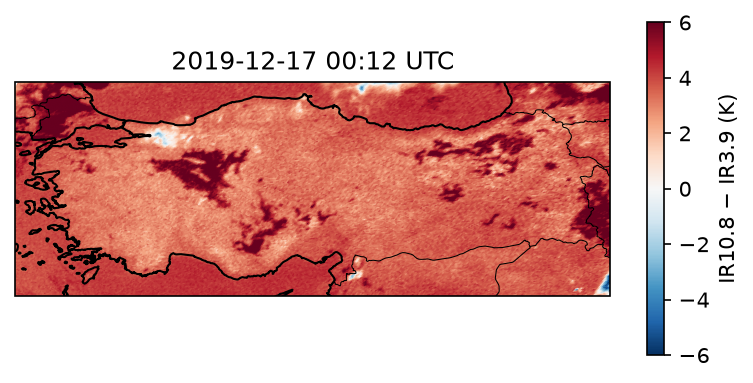
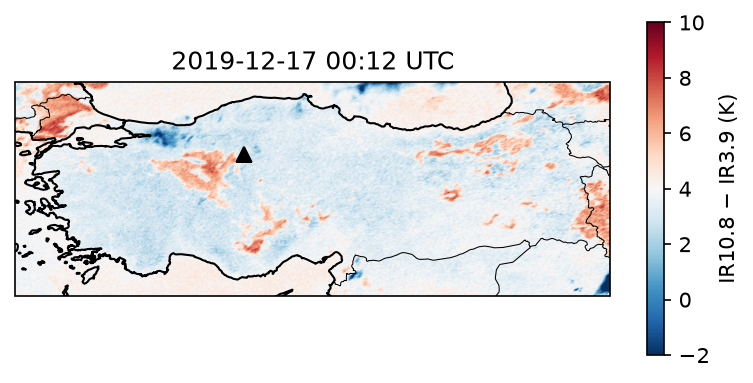
Mark LTAC on BTD map and print station pixel value

diff --git a/scripts/05_explore_btd.py b/scripts/05_explore_btd.py
@@ -14,9 +14,14 @@ print(diff.shape, float(diff.min()), float(diff.max()))
 crs = local["IR_108"].attrs["area"].to_cartopy_crs()
 ax = plt.axes(projection=ccrs.PlateCarree())
 ax.set_extent([25.5, 45.0, 35.5, 42.5], crs=ccrs.PlateCarree())
-img = ax.imshow(diff, transform=crs, extent=crs.bounds, origin="upper", cmap="RdBu_r", vmin=-6, vmax=6)
+img = ax.imshow(diff, transform=crs, extent=crs.bounds, origin="upper", cmap="RdBu_r", vmin=-2, vmax=10)
 ax.coastlines()
 ax.add_feature(cfeature.BORDERS, linewidth=0.5)
 plt.colorbar(img, label="IR10.8 − IR3.9 (K)", shrink=0.6)
 plt.title("2019-12-17 00:12 UTC")
+ax.plot(32.995, 40.128, marker="^", color="black", markersize=7, transform=ccrs.PlateCarree())
 plt.savefig("docs/figures/btd_20191217_0012.png", dpi=150, bbox_inches="tight")
+
+area = local["IR_108"].attrs["area"]
+col, row = area.get_array_indices_from_lonlat(32.9951, 40.1281)
+print("Esenboğa BTD:", float(diff[row, col]))
